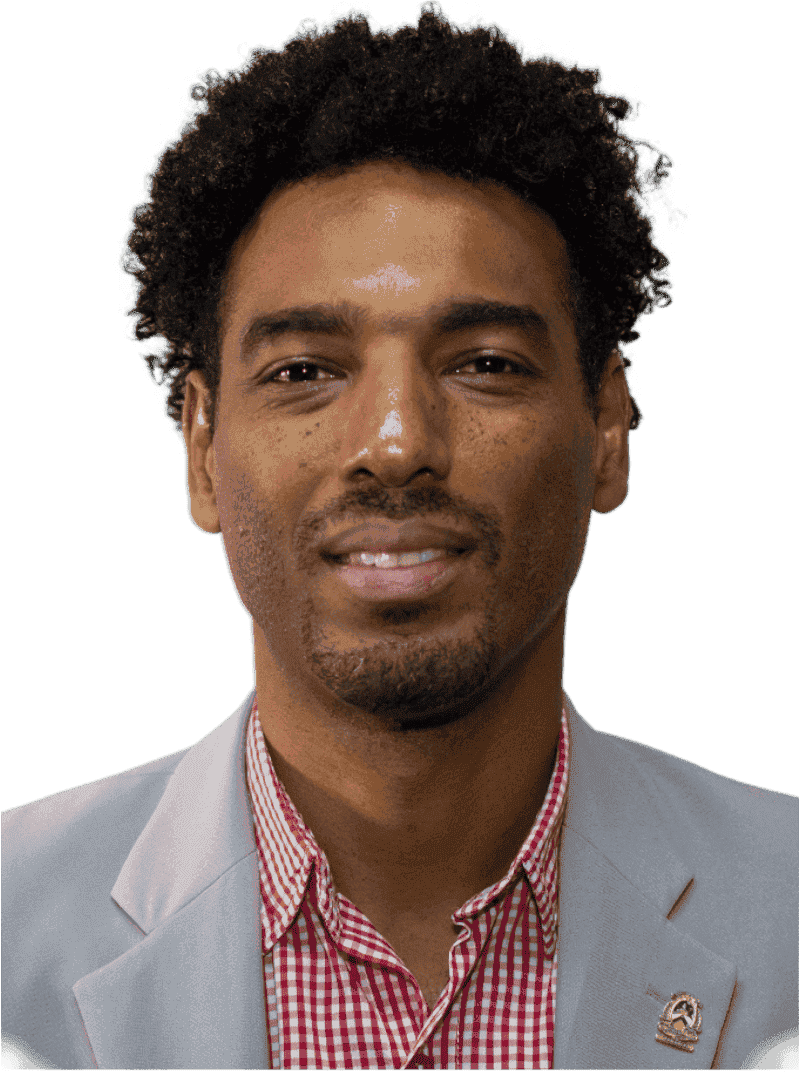
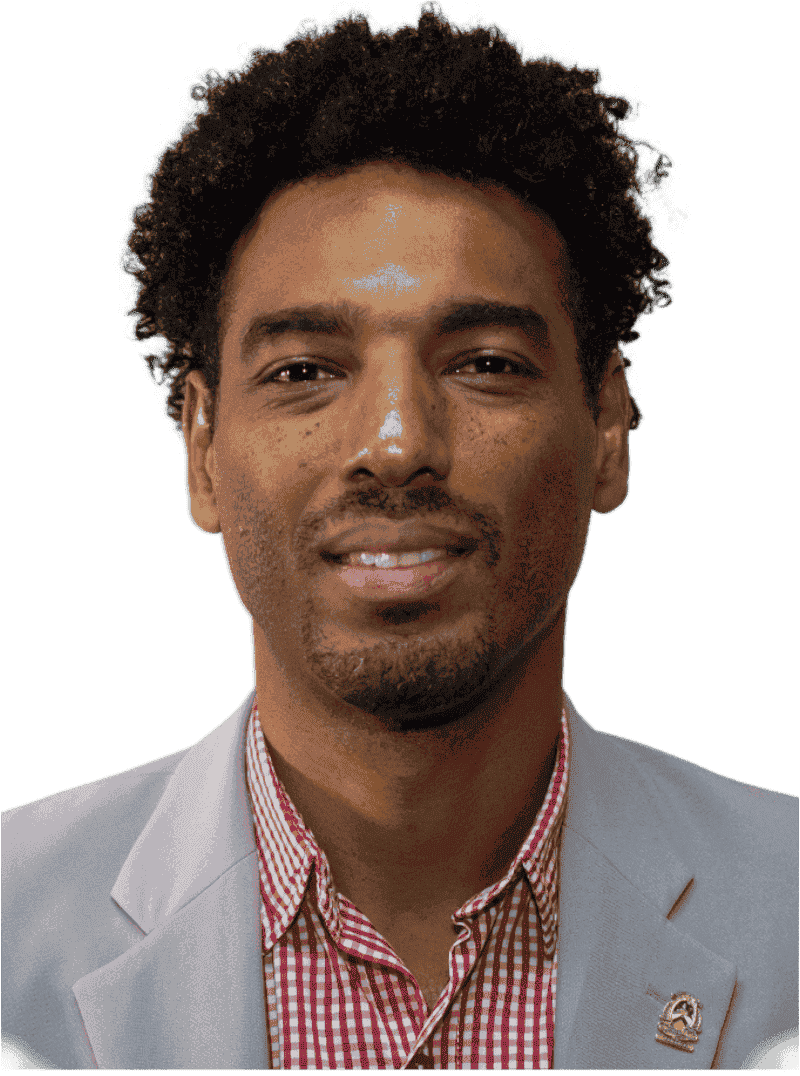
update pricadidade and termos

diff --git a/privacidade.html b/privacidade.html
@@ -1,0 +1,141 @@
+<!DOCTYPE html>
+<html lang="pt-BR" class="scroll-smooth">
+<head>
+    <meta charset="utf-8" />
+    <meta name="viewport" content="width=device-width, initial-scale=1, shrink-to-fit=no" />
+    <title>Política de Privacidade | Edir Pereira - Abrindo Portas</title>
+    <meta name="description" content="Política de Privacidade e Proteção de Dados (LGPD) do site Abrindo Portas Tecnologia." />
+    <link rel="icon" type="image/png" href="assets/favicon.png" />
+
+    <script src="https://cdn.tailwindcss.com"></script>
+    <script>
+        tailwind.config = { theme: { extend: { colors: { brand: { blue: '#0ea5e9', dark: '#0f172a', light: '#f8fafc' } }, fontFamily: { sans: ['Plus Jakarta Sans', 'sans-serif'] } } } }
+    </script>
+    <link href="https://fonts.googleapis.com/css2?family=Plus+Jakarta+Sans:wght@300;400;500;600;700;800&display=swap" rel="stylesheet" />
+</head>
+<body class="bg-brand-light text-slate-800 antialiased flex flex-col min-h-screen">
+
+    <nav class="fixed w-full z-50 top-0 bg-white/80 backdrop-blur-md border-b border-slate-200 transition-all duration-300" id="navbar">
+        <div class="max-w-7xl mx-auto px-4 sm:px-6 lg:px-8">
+            <div class="flex justify-between items-center h-20">
+                <a href="index.html" class="flex items-center gap-3 group">
+                    <img src="http://abrindoportas.tec.br/assets/favicon.png" alt="Logo" class="h-10 w-10 object-contain group-hover:scale-105 transition-transform" />
+                    <span class="font-extrabold text-xl tracking-tight text-slate-900">Abrindo<span class="text-brand-blue">Portas</span></span>
+                </a>
+                <div class="hidden md:flex items-center space-x-8">
+                    <a href="index.html" class="text-slate-600 hover:text-brand-blue font-medium transition-colors">Home</a>
+                    <a href="resume.html" class="text-slate-600 hover:text-brand-blue font-medium transition-colors">Resumo</a>
+                    <a href="projects.html" class="text-slate-600 hover:text-brand-blue font-medium transition-colors">Projetos</a>
+                    <!-- <a href="contact.html" class="px-5 py-2.5 bg-brand-dark text-white font-medium rounded-lg hover:bg-slate-800 transition-all shadow-md">Contato</a> -->
+                </div>
+                <button id="mobile-menu-btn" class="md:hidden text-slate-600 hover:text-brand-blue p-2"><svg class="w-6 h-6" fill="none" stroke="currentColor" viewBox="0 0 24 24"><path stroke-linecap="round" stroke-linejoin="round" stroke-width="2" d="M4 6h16M4 12h16M4 18h16"></path></svg></button>
+            </div>
+        </div>
+        <div id="mobile-menu" class="hidden md:hidden bg-white border-t border-slate-100 px-4 pt-2 pb-6 space-y-2 shadow-lg">
+            <a href="index.html" class="block px-3 py-2 text-slate-600 font-medium rounded-md hover:bg-slate-50">Home</a>
+            <a href="resume.html" class="block px-3 py-2 text-slate-600 font-medium rounded-md hover:bg-slate-50">Resumo</a>
+            <a href="projects.html" class="block px-3 py-2 text-slate-600 font-medium rounded-md hover:bg-slate-50">Projetos</a>
+            <!-- <a href="contact.html" class="block px-3 py-2 text-slate-600 font-medium rounded-md hover:bg-slate-50">Contato</a> -->
+        </div>
+    </nav>
+
+    <main class="flex-grow pt-32 pb-16">
+        <div class="max-w-4xl mx-auto px-4 sm:px-6 lg:px-8">
+            <div class="bg-white rounded-3xl p-8 md:p-12 shadow-[0_8px_30px_rgb(0,0,0,0.04)] border border-slate-100">
+                
+                <div class="mb-10 border-b border-slate-200 pb-6">
+                    <h1 class="text-3xl md:text-4xl font-extrabold text-slate-900 mb-4">Política de Privacidade</h1>
+                    <p class="text-slate-500">Última atualização: 29 de Maio de 2026</p>
+                </div>
+
+                <div class="space-y-8 text-slate-600 leading-relaxed">
+                    
+                    <section>
+                        <h2 class="text-xl font-bold text-slate-900 mb-3">1. Introdução</h2>
+                        <p>A <strong>Abrindo Portas Tecnologia</strong> (representada por Edir Pereira) valoriza a privacidade de seus usuários e está comprometida em proteger os dados pessoais coletados durante a sua navegação em nosso site (abrindoportas.tec.br). Esta política explica como coletamos, usamos, armazenamos e protegemos suas informações, em total conformidade com a <strong>Lei Geral de Proteção de Dados Pessoais (LGPD - Lei nº 13.709/2018)</strong>.</p>
+                    </section>
+
+                    <section>
+                        <h2 class="text-xl font-bold text-slate-900 mb-3">2. Dados que Coletamos</h2>
+                        <p>Coletamos apenas os dados estritamente necessários para o funcionamento do site e para o estabelecimento de comunicação comercial:</p>
+                        <ul class="list-disc pl-6 mt-2 space-y-2">
+                            <li><strong>Dados fornecidos ativamente pelo usuário:</strong> Nome completo, e-mail, telefone (WhatsApp) e o conteúdo da mensagem, coletados exclusivamente quando você preenche voluntariamente nosso formulário de contato.</li>
+                            <li><strong>Dados coletados automaticamente (Cookies e Analytics):</strong> Utilizamos o Google Analytics para entender como os visitantes interagem com o site. Isso inclui endereço IP (anonimizado), tipo de navegador, páginas visitadas, tempo gasto no site e dispositivo utilizado. Estes dados são estatísticos e não identificam o usuário pessoalmente.</li>
+                        </ul>
+                    </section>
+
+                    <section>
+                        <h2 class="text-xl font-bold text-slate-900 mb-3">3. Finalidade do Tratamento dos Dados</h2>
+                        <p>Os dados coletados são utilizados para os seguintes propósitos:</p>
+                        <ul class="list-disc pl-6 mt-2 space-y-2">
+                            <li>Responder a solicitações de contato, orçamentos e dúvidas enviadas através do formulário ou WhatsApp.</li>
+                            <li>Aprimorar a experiência de navegação e a usabilidade do site, com base nas métricas de acesso.</li>
+                            <li>Estabelecer comunicação comercial direta para a prestação de serviços de consultoria em tecnologia.</li>
+                        </ul>
+                    </section>
+
+                    <section>
+                        <h2 class="text-xl font-bold text-slate-900 mb-3">4. Compartilhamento de Dados</h2>
+                        <p><strong>Nós não vendemos, alugamos ou repassamos seus dados pessoais a terceiros.</strong> O compartilhamento de dados ocorre estritamente com fornecedores de infraestrutura técnica necessários para a operação do site (ex: serviços de hospedagem e o Google Analytics, que processa dados de navegação de forma agregada).</p>
+                    </section>
+
+                    <section>
+                        <h2 class="text-xl font-bold text-slate-900 mb-3">5. Segurança das Informações</h2>
+                        <p>Adotamos medidas técnicas e organizacionais de segurança da informação para proteger seus dados pessoais contra acessos não autorizados, perda, destruição ou alteração. O site utiliza protocolo HTTPS para garantir a comunicação criptografada entre o seu navegador e os nossos servidores.</p>
+                    </section>
+
+                    <section>
+                        <h2 class="text-xl font-bold text-slate-900 mb-3">6. Seus Direitos (LGPD)</h2>
+                        <p>Como titular dos dados, você possui os seguintes direitos garantidos pela LGPD:</p>
+                        <ul class="list-disc pl-6 mt-2 space-y-2">
+                            <li>Confirmação da existência de tratamento.</li>
+                            <li>Acesso aos dados coletados.</li>
+                            <li>Correção de dados incompletos, inexatos ou desatualizados.</li>
+                            <li>Anonimização, bloqueio ou eliminação de dados desnecessários, excessivos ou tratados em desconformidade com a lei.</li>
+                            <li>Revogação do consentimento a qualquer momento.</li>
+                        </ul>
+                        <p class="mt-2">Para exercer qualquer um desses direitos, entre em contato conosco através dos canais disponibilizados abaixo.</p>
+                    </section>
+
+                    <section>
+                        <h2 class="text-xl font-bold text-slate-900 mb-3">7. Contato e Encarregado de Dados</h2>
+                        <p>Se você tiver dúvidas sobre esta Política de Privacidade ou sobre como tratamos seus dados, entre em contato diretamente com o responsável:</p>
+                        <div class="mt-4 p-4 bg-slate-50 border border-slate-200 rounded-xl">
+                            <p><strong>Responsável:</strong> Edir Pereira</p>
+                            <p><strong>Localidade:</strong> Palmas, TO - Brasil</p>
+                            <p><strong>Canal de Atendimento:</strong> <a href="contact.html" class="text-brand-blue hover:underline">Página de Contato</a> ou via <a href="https://wa.me/5561984067817" target="_blank" class="text-brand-blue hover:underline">WhatsApp</a></p>
+                        </div>
+                    </section>
+
+                </div>
+            </div>
+        </div>
+    </main>
+
+    <footer class="bg-white border-t border-slate-200 py-8 mt-auto">
+        <div class="max-w-7xl mx-auto px-4 sm:px-6 lg:px-8">
+            <div class="flex flex-col md:flex-row items-center justify-between gap-4">
+                <div class="text-slate-500 text-sm font-medium">
+                    &copy; <span id="year"></span> Abrindo Portas Tecnologia.
+                </div>
+                <a href="index.html" class="opacity-50 hover:opacity-100 transition-opacity">
+                    <img src="http://abrindoportas.tec.br/assets/favicon.png" alt="Logo Footer" class="h-8 w-8 object-contain">
+                </a>
+                <div class="flex gap-4 text-sm font-medium text-slate-500">
+                    <a href="privacidade.html" class="text-brand-blue transition-colors">Privacidade</a>
+                    <a href="termos.html" class="hover:text-brand-blue transition-colors">Termos</a>
+                </div>
+            </div>
+        </div>
+    </footer>
+    
+    <script>
+        document.getElementById('year').textContent = new Date().getFullYear();
+        document.getElementById('mobile-menu-btn').addEventListener('click', () => document.getElementById('mobile-menu').classList.toggle('hidden'));
+        window.addEventListener('scroll', () => {
+            const nav = document.getElementById('navbar');
+            window.scrollY > 10 ? nav.classList.add('shadow-sm', 'bg-white/90') : nav.classList.remove('shadow-sm', 'bg-white/90');
+        });
+    </script>
+</body>
+</html>

diff --git a/termo.html b/termo.html
@@ -1,0 +1,130 @@
+<!DOCTYPE html>
+<html lang="pt-BR" class="scroll-smooth">
+<head>
+    <meta charset="utf-8" />
+    <meta name="viewport" content="width=device-width, initial-scale=1, shrink-to-fit=no" />
+    <title>Termos de Uso | Edir Pereira - Abrindo Portas</title>
+    <meta name="description" content="Termos de Uso e Condições de Acesso ao site Abrindo Portas Tecnologia." />
+    <link rel="icon" type="image/png" href="assets/favicon.png" />
+
+    <script src="https://cdn.tailwindcss.com"></script>
+    <script>
+        tailwind.config = { theme: { extend: { colors: { brand: { blue: '#0ea5e9', dark: '#0f172a', light: '#f8fafc' } }, fontFamily: { sans: ['Plus Jakarta Sans', 'sans-serif'] } } } }
+    </script>
+    <link href="https://fonts.googleapis.com/css2?family=Plus+Jakarta+Sans:wght@300;400;500;600;700;800&display=swap" rel="stylesheet" />
+</head>
+<body class="bg-brand-light text-slate-800 antialiased flex flex-col min-h-screen">
+
+    <nav class="fixed w-full z-50 top-0 bg-white/80 backdrop-blur-md border-b border-slate-200 transition-all duration-300" id="navbar">
+        <div class="max-w-7xl mx-auto px-4 sm:px-6 lg:px-8">
+            <div class="flex justify-between items-center h-20">
+                <a href="index.html" class="flex items-center gap-3 group">
+                    <img src="http://abrindoportas.tec.br/assets/favicon.png" alt="Logo" class="h-10 w-10 object-contain group-hover:scale-105 transition-transform" />
+                    <span class="font-extrabold text-xl tracking-tight text-slate-900">Abrindo<span class="text-brand-blue">Portas</span></span>
+                </a>
+                <div class="hidden md:flex items-center space-x-8">
+                    <a href="index.html" class="text-slate-600 hover:text-brand-blue font-medium transition-colors">Home</a>
+                    <a href="resume.html" class="text-slate-600 hover:text-brand-blue font-medium transition-colors">Resumo</a>
+                    <a href="projects.html" class="text-slate-600 hover:text-brand-blue font-medium transition-colors">Projetos</a>
+                    <!-- <a href="contact.html" class="px-5 py-2.5 bg-brand-dark text-white font-medium rounded-lg hover:bg-slate-800 transition-all shadow-md">Contato</a> -->
+                </div>
+                <button id="mobile-menu-btn" class="md:hidden text-slate-600 hover:text-brand-blue p-2"><svg class="w-6 h-6" fill="none" stroke="currentColor" viewBox="0 0 24 24"><path stroke-linecap="round" stroke-linejoin="round" stroke-width="2" d="M4 6h16M4 12h16M4 18h16"></path></svg></button>
+            </div>
+        </div>
+        <div id="mobile-menu" class="hidden md:hidden bg-white border-t border-slate-100 px-4 pt-2 pb-6 space-y-2 shadow-lg">
+            <a href="index.html" class="block px-3 py-2 text-slate-600 font-medium rounded-md hover:bg-slate-50">Home</a>
+            <a href="resume.html" class="block px-3 py-2 text-slate-600 font-medium rounded-md hover:bg-slate-50">Resumo</a>
+            <a href="projects.html" class="block px-3 py-2 text-slate-600 font-medium rounded-md hover:bg-slate-50">Projetos</a>
+            <!-- <a href="contact.html" class="block px-3 py-2 text-slate-600 font-medium rounded-md hover:bg-slate-50">Contato</a> -->
+        </div>
+    </nav>
+
+    <main class="flex-grow pt-32 pb-16">
+        <div class="max-w-4xl mx-auto px-4 sm:px-6 lg:px-8">
+            <div class="bg-white rounded-3xl p-8 md:p-12 shadow-[0_8px_30px_rgb(0,0,0,0.04)] border border-slate-100">
+                
+                <div class="mb-10 border-b border-slate-200 pb-6">
+                    <h1 class="text-3xl md:text-4xl font-extrabold text-slate-900 mb-4">Termos e Condições de Uso</h1>
+                    <p class="text-slate-500">Última atualização: 29 de Maio de 2026</p>
+                </div>
+
+                <div class="space-y-8 text-slate-600 leading-relaxed">
+                    
+                    <section>
+                        <h2 class="text-xl font-bold text-slate-900 mb-3">1. Aceitação dos Termos</h2>
+                        <p>Ao acessar e utilizar o site <strong>Abrindo Portas</strong> (abrindoportas.tec.br), você concorda em cumprir e ficar vinculado a estes Termos de Uso. Se você não concordar com qualquer parte destes termos, não deverá utilizar nosso site ou nossos serviços de consultoria.</p>
+                    </section>
+
+                    <section>
+                        <h2 class="text-xl font-bold text-slate-900 mb-3">2. Descrição dos Serviços</h2>
+                        <p>Este site atua como um portfólio profissional e canal de contato direto com <strong>Edir Pereira</strong>, oferecendo informações sobre projetos de tecnologia, consultoria em sistemas, segurança da informação e transformação digital. As informações aqui contidas têm caráter informativo e comercial para a prospecção de novos negócios.</p>
+                    </section>
+
+                    <section>
+                        <h2 class="text-xl font-bold text-slate-900 mb-3">3. Propriedade Intelectual</h2>
+                        <p>Todo o conteúdo presente neste site, incluindo, mas não se limitando a textos, gráficos, logotipos, ícones, imagens, clipes de áudio, downloads digitais e compilações de dados, é de propriedade exclusiva de Edir Pereira ou de seus respectivos licenciadores, estando protegido pelas leis de direitos autorais brasileiras e internacionais.</p>
+                        <p class="mt-2">É estritamente proibida a reprodução, distribuição, modificação ou uso comercial não autorizado de qualquer material deste site sem a permissão prévia, por escrito, do titular.</p>
+                    </section>
+
+                    <section>
+                        <h2 class="text-xl font-bold text-slate-900 mb-3">4. Uso Aceitável</h2>
+                        <p>Ao utilizar nosso formulário de contato e ferramentas de comunicação (como WhatsApp), o usuário concorda em:</p>
+                        <ul class="list-disc pl-6 mt-2 space-y-2">
+                            <li>Fornecer informações verdadeiras, exatas, atuais e completas.</li>
+                            <li>Não utilizar o site para fins ilegais, fraudulentos ou que violem os direitos de terceiros.</li>
+                            <li>Não tentar introduzir vírus, trojans, worms ou qualquer outro material tecnologicamente malicioso.</li>
+                        </ul>
+                    </section>
+
+                    <section>
+                        <h2 class="text-xl font-bold text-slate-900 mb-3">5. Privacidade e Proteção de Dados (LGPD)</h2>
+                        <p>O tratamento de dados pessoais coletados através deste site (como nome, e-mail e telefone no formulário de contato) é realizado em estrita conformidade com a Lei Geral de Proteção de Dados (Lei nº 13.709/2018). Os dados fornecidos são utilizados exclusivamente para fins de retorno de contato e orçamento de projetos, não sendo comercializados ou compartilhados com terceiros sem consentimento.</p>
+                    </section>
+
+                    <section>
+                        <h2 class="text-xl font-bold text-slate-900 mb-3">6. Limitação de Responsabilidade</h2>
+                        <p>Embora nos esforcemos para manter as informações do site precisas e atualizadas, a <strong>Abrindo Portas Tecnologia</strong> não garante que o site estará livre de erros ou interrupções. Não nos responsabilizamos por quaisquer danos diretos, indiretos, incidentais ou consequentes resultantes do uso ou da incapacidade de usar este site.</p>
+                    </section>
+
+                    <section>
+                        <h2 class="text-xl font-bold text-slate-900 mb-3">7. Links para Terceiros</h2>
+                        <p>Nosso site pode conter links para sites de terceiros (como GitHub, LinkedIn, portfólios de clientes ou notícias). Esses links são fornecidos apenas para sua conveniência. Não temos controle sobre o conteúdo desses sites e não assumimos qualquer responsabilidade por eles ou por qualquer perda que possa surgir de seu uso.</p>
+                    </section>
+
+                    <section>
+                        <h2 class="text-xl font-bold text-slate-900 mb-3">8. Foro e Legislação Aplicável</h2>
+                        <p>Estes Termos de Uso são regidos e interpretados de acordo com as leis da República Federativa do Brasil. Fica eleito o foro da Comarca de <strong>Palmas, Estado do Tocantins</strong>, para dirimir quaisquer dúvidas ou litígios oriundos deste documento, com renúncia expressa a qualquer outro, por mais privilegiado que seja.</p>
+                    </section>
+
+                </div>
+            </div>
+        </div>
+    </main>
+
+    <footer class="bg-white border-t border-slate-200 py-8 mt-auto">
+        <div class="max-w-7xl mx-auto px-4 sm:px-6 lg:px-8">
+            <div class="flex flex-col md:flex-row items-center justify-between gap-4">
+                <div class="text-slate-500 text-sm font-medium">
+                    &copy; <span id="year"></span> Abrindo Portas Tecnologia.
+                </div>
+                <a href="index.html" class="opacity-50 hover:opacity-100 transition-opacity">
+                    <img src="http://abrindoportas.tec.br/assets/favicon.png" alt="Logo Footer" class="h-8 w-8 object-contain">
+                </a>
+                <div class="flex gap-4 text-sm font-medium text-slate-500">
+                    <a href="#" class="hover:text-brand-blue transition-colors">Privacidade</a>
+                    <a href="termos.html" class="text-brand-blue transition-colors">Termos</a>
+                </div>
+            </div>
+        </div>
+    </footer>
+    
+    <script>
+        document.getElementById('year').textContent = new Date().getFullYear();
+        document.getElementById('mobile-menu-btn').addEventListener('click', () => document.getElementById('mobile-menu').classList.toggle('hidden'));
+        window.addEventListener('scroll', () => {
+            const nav = document.getElementById('navbar');
+            window.scrollY > 10 ? nav.classList.add('shadow-sm', 'bg-white/90') : nav.classList.remove('shadow-sm', 'bg-white/90');
+        });
+    </script>
+</body>
+</html>

diff --git a/index.html b/index.html
@@ -182,9 +182,9 @@
                 </a>
                 
                 <div class="flex gap-4 text-sm font-medium text-slate-500">
-                    <a href="#" class="hover:text-brand-blue transition-colors">Privacidade</a>
+                    <a href="privacidade.html" class="hover:text-brand-blue transition-colors">Privacidade</a>
                     <span>&middot;</span>
-                    <a href="#" class="hover:text-brand-blue transition-colors">Termos</a>
+                    <a href="termo.html" class="hover:text-brand-blue transition-colors">Termos</a>
                 </div>
             </div>
         </div>